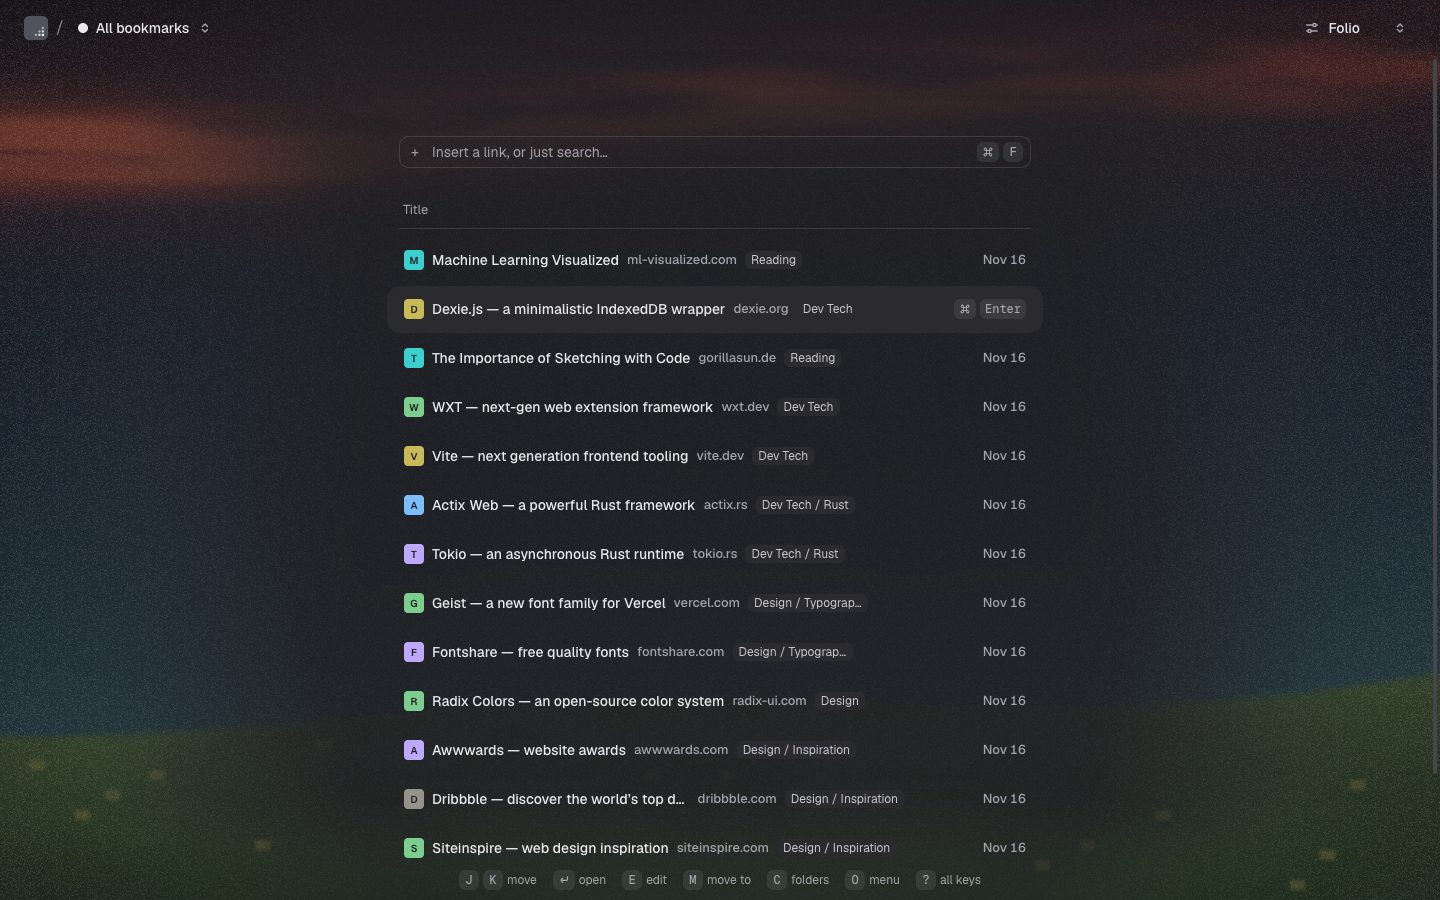
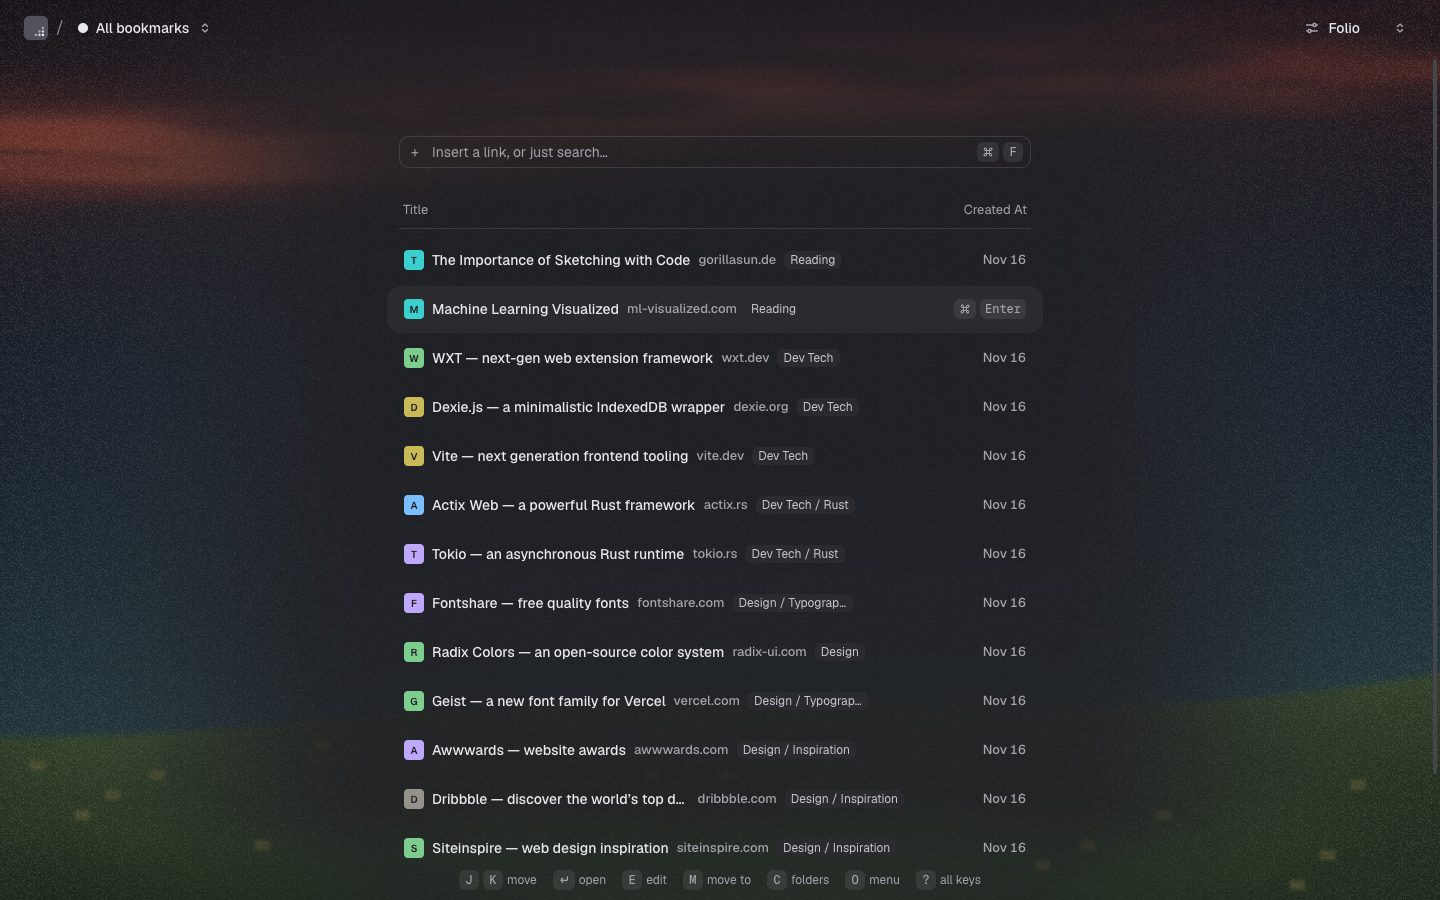
Release 0.1.2: dark README screenshots, Created At label restored
- Put the Created At label back in the list header.
- README shows the dark Meadow dashboard and dark popups; the website's
  product image is regenerated from the new screenshot.
- Version 0.1.2 carries the icon frame fix (#16), so privately signed
  Firefox and Zen builds pick it up through the update manifest.

diff --git a/components/dashboard/Dashboard.tsx b/components/dashboard/Dashboard.tsx
@@ -275,6 +275,7 @@ export function Dashboard({ compact = false }: { compact?: boolean }) {
           {!compact && (
             <div className="mb-2 flex items-center justify-between border-b border-control px-1 pb-2 text-[13px] text-muted">
               <span>Title</span>
+              <span>Created At</span>
             </div>
           )}
 

diff --git a/README.md b/README.md
@@ -12,10 +12,7 @@
 </p>
 
 <p align="center">
-  <picture>
-    <source media="(prefers-color-scheme: dark)" srcset="docs/screenshots/dashboard-dark.jpg" />
-    <img src="docs/screenshots/dashboard-light.jpg" alt="Folio dashboard with the Meadow background" width="760" />
-  </picture>
+  <img src="docs/screenshots/dashboard-dark.jpg" alt="Folio dashboard in the dark theme with the Meadow background" width="760" />
 </p>
 
 Folio does not keep a second copy of your bookmarks. It reads and writes the browser's **native bookmark tree**, so
@@ -39,7 +36,7 @@ Works in **Chrome, Edge, Brave, Arc, Dia and other Chromium browsers**, and in *
 
 <p align="center">
   <img src="docs/screenshots/popup-save.png" alt="The save popup" width="190" />
-  <img src="docs/screenshots/popup-saved.png" alt="The popup for an already saved page, dark" width="190" />
+  <img src="docs/screenshots/popup-saved.png" alt="The popup for an already saved page" width="190" />
 </p>
 
 ## Install

diff --git a/CHANGELOG.md b/CHANGELOG.md
@@ -4,10 +4,11 @@ All notable changes are recorded here. The format follows [Keep a Changelog](htt
 
 ## [Unreleased]
 
+## [0.1.2] - 2026-11-16
+
 ### Changed
 
-- The list header no longer shows a "Created At" label; the dates stay in the rows.
-- README screenshots show the Meadow background in both themes.
+- README screenshots show the Meadow background in the dark theme.
 
 ### Fixed
 
